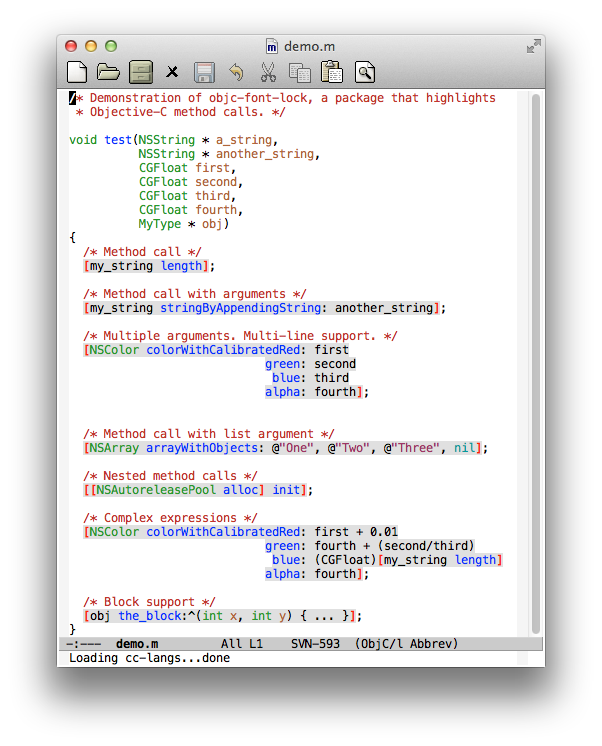
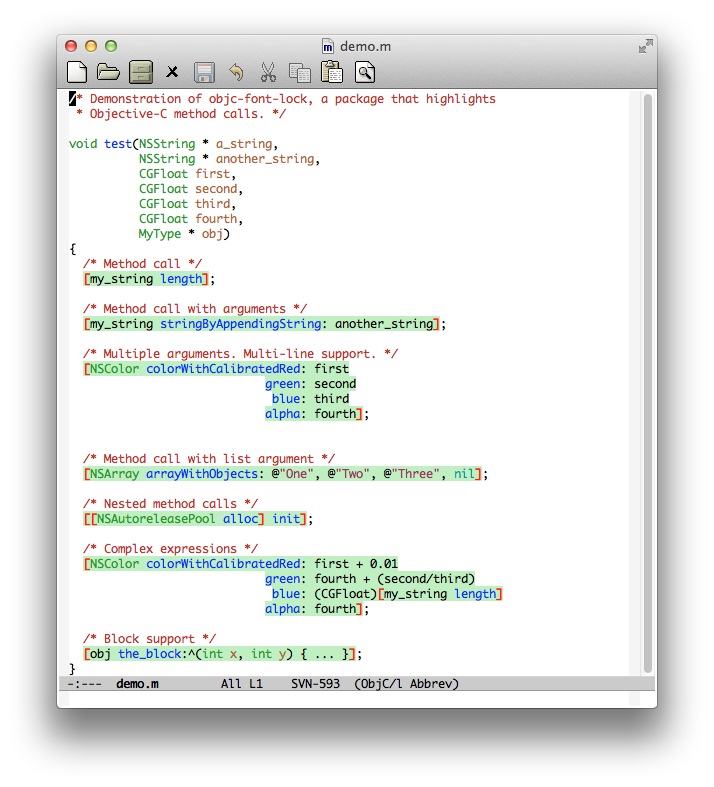
Reworked mode setup. Use 'highlight' face rather than Grey85 as it works with color themes. Define real faces rather than just variables.
git-svn-id: https://dropofthesun.com/svn/emacs/repos/objc-font-lock/branches/github@973 c1af6f96-8016-4733-90a2-447896f46de0

Changed region(s): [[0.0598, 0.0308, 0.9568, 0.9249]]

diff --git a/README.md b/README.md
@@ -1,7 +1,7 @@
 # objc-font-lock - Highlight Objective-C method calls
 
 *Author:* Anders Lindgren<br>
-*Version:* 0.0.3<br>
+*Version:* 0.0.4<br>
 *URL:* [https://github.com/Lindydancer/objc-font-lock](https://github.com/Lindydancer/objc-font-lock)<br>
 
 This package highlights Objective-C method calls.
@@ -16,10 +16,13 @@ they are different from normal C function calls.
 By highlighting method calls, it is possible to read the same piece
 of code faster and more accurate.
 
-By default, the open and close bracket is highligted using a bright
-warning face, the entire method call is highligthed using a grey
-background face, and each Objective-C function name component is
-highlighted using the font-lock function name face.
+By default, the open and close bracket is highlighted using a
+bright *warning face*, the entire method call is highligthed using
+the standard *highlight face*, and each Objective-C function name
+component is highlighted using the *font-lock function name* face.
+
+For a more sober appearance, you can configure the package to, for
+example, only highlight the function name components.
 
 The following screenshot demonstrates the highlighting effect of
 this package:
@@ -28,8 +31,12 @@ this package:
 
 ## Installation
 
-This package is designed to be installed as a "package". Once
-installed, it is automatically activated.
+Place this package in a directory in the load-path. To activate it,
+use *customize* or place the following lines in a suitable init
+file:
+
+       (require 'objc-font-lock-mode)
+       (objc-font-lock-global-mode 1)
 
 ## Customization
 
@@ -39,7 +46,7 @@ Method calls are highlighted as follows:
     [expr func: expr]
     ^               ^-- objc-font-lock-bracket-face       Warning face
           ^^^^--------- objc-font-lock-function-name-face Function name face
-    ^^^^^^^^^^^^^^^^^-- objc-font-lock-background-face    Grey 85
+    ^^^^^^^^^^^^^^^^^-- objc-font-lock-background-face    Highlight
 
 To change the face used, change the face variable. By setting it to
 "nil", the corresponding part of the method call will not be
